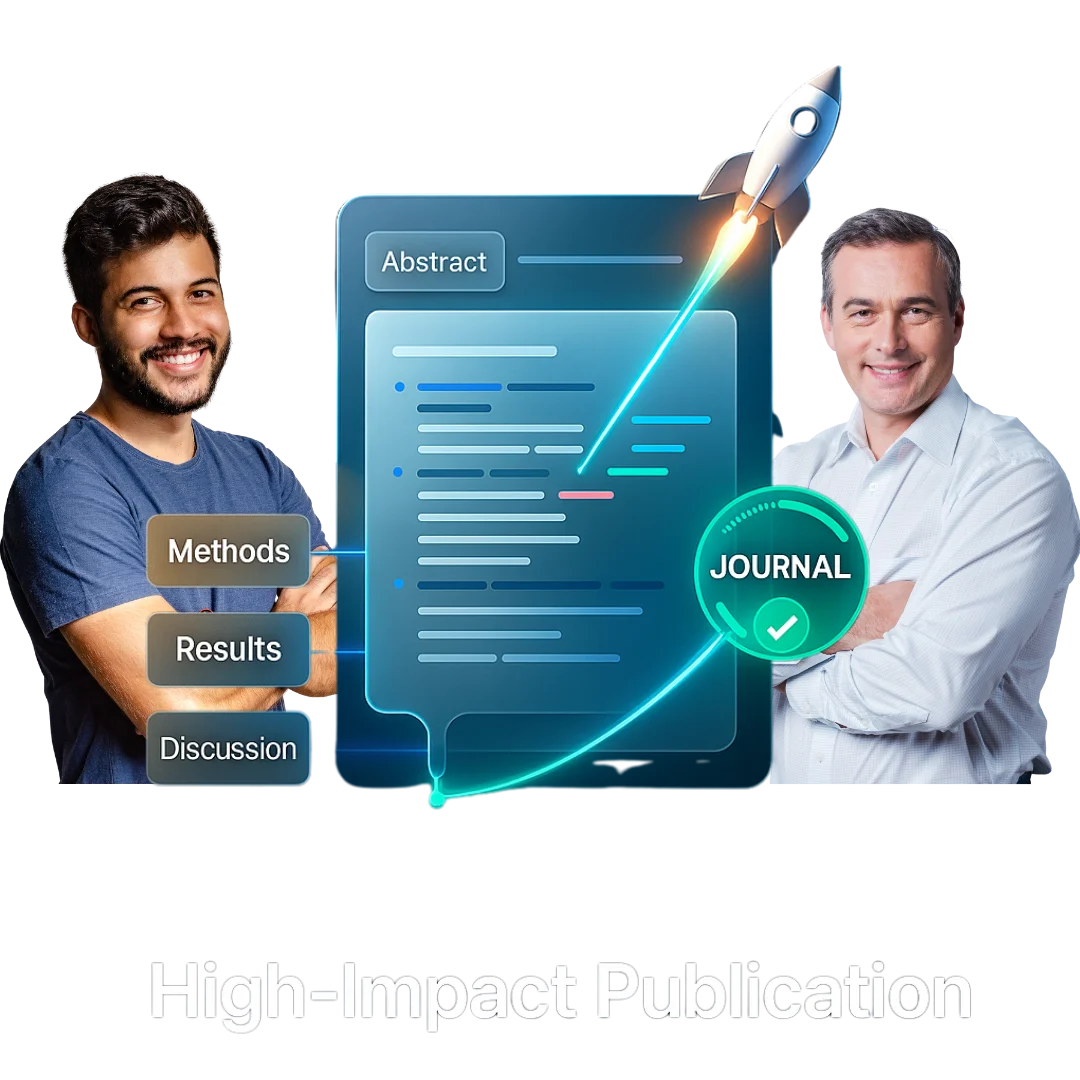
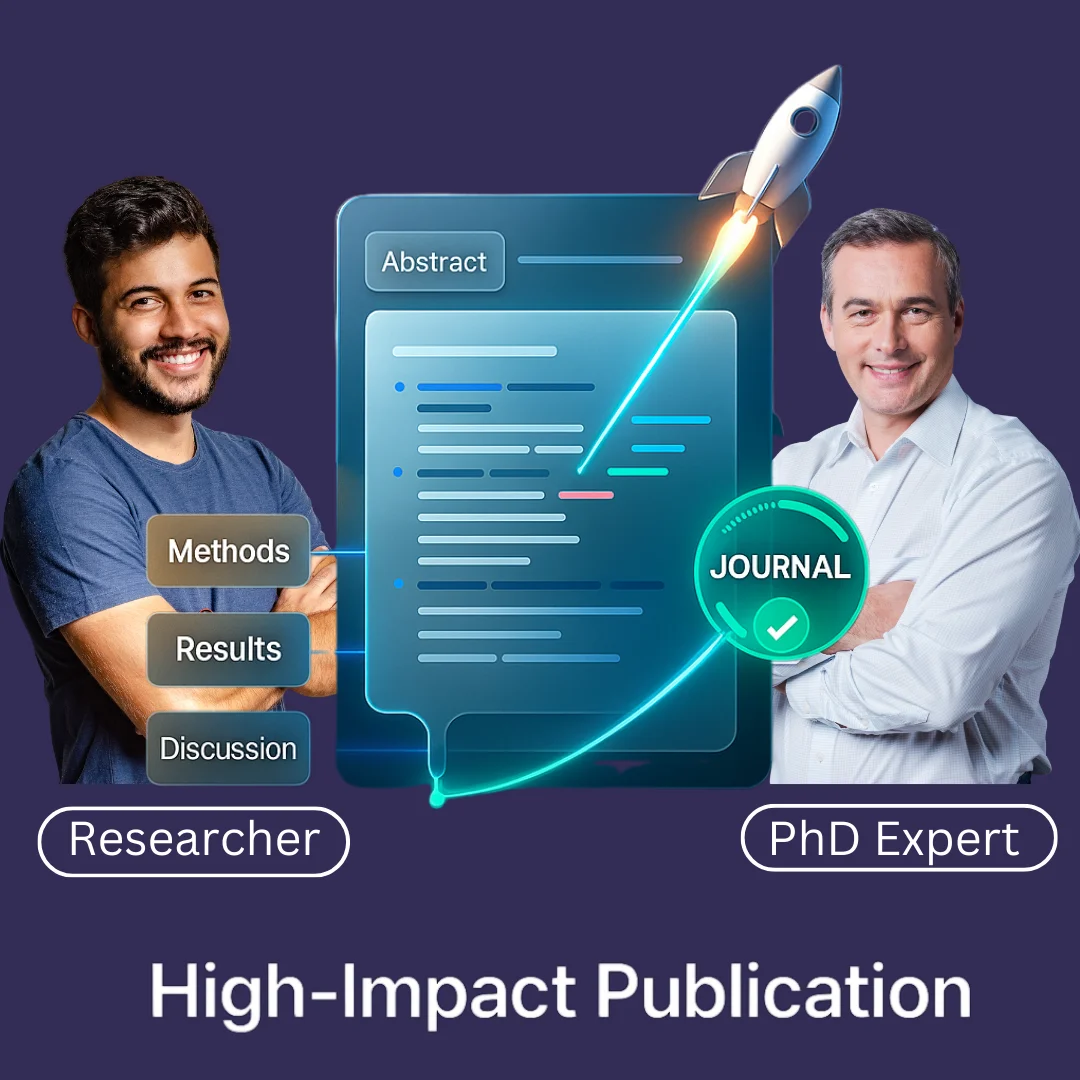
chnages background and image and link drop down pages related service section etc

diff --git a/src/assets/Pages/Editorial.jsx b/src/assets/Pages/Editorial.jsx
@@ -8,6 +8,7 @@ import PAY from '../images/payment.webp';
 import Risk from '../images/blueprint.webp';
 import { FaCheck, FaWhatsapp } from "react-icons/fa";
 import { servicesData, faqs, packages } from "../content/editorialdata";
+import { Link } from "react-router-dom";
 
 const Editorial = () => {
   const [activeTab, setActiveTab] = useState("Research Planning");
@@ -217,13 +218,13 @@ const Editorial = () => {
       <section className="related-services">
         <h2 className="services-title">Related Services</h2>
         <div className="services-links">
-          <a href="/data-services">Research Planning</a>
-          <span>·</span>
-          <a href="/editorial-support">Data Services</a>
-          <span>·</span>
-          <a href="/publication-support">Publication Support</a>
-          <span>·</span>
-          <a href="/publication-support">Academic Presentations</a>
+          <Link to="/research">Research Planning</Link>
+          <br/>
+          <Link to="/data">Data Services</Link>
+          <br/>
+          <Link to="/publication">Publication Support</Link>
+          <br/>
+          <Link to="/academic">Academic Presentation</Link>
         </div>
 
         <p className="services-text">

diff --git a/src/assets/Pages/Publication.jsx b/src/assets/Pages/Publication.jsx
@@ -8,6 +8,7 @@ import PAY from '../images/payment.webp';
 import Risk from '../images/blueprint.webp';
 import { FaCheck, FaWhatsapp } from "react-icons/fa";
 import { servicesData, faqs, packages } from "../content/editorialdata";
+import { Link } from "react-router-dom";
 
 const Publication = () => {
   const [activeTab, setActiveTab] = useState("Research Planning");
@@ -217,13 +218,13 @@ const Publication = () => {
       <section className="related-services">
         <h2 className="services-title">Related Services</h2>
         <div className="services-links">
-          <a href="/data-services">Research Planning</a>
-          <span>·</span>
-          <a href="/editorial-support">Data Services</a>
-          <span>·</span>
-          <a href="/publication-support">Publication Support</a>
-          <span>·</span>
-          <a href="/publication-support">Academic Presentations</a>
+          <Link to="/research">Research Planning</Link>
+          <br/>
+          <Link to="/data">Data Services</Link>
+          <br/>
+          <Link to="/editorial">Editorial Support</Link>
+          <br/>
+          <Link to="/academic">Academic Presentation</Link>
         </div>
 
         <p className="services-text">

diff --git a/src/assets/Pages/Academic.jsx b/src/assets/Pages/Academic.jsx
@@ -9,6 +9,7 @@ import PAY from '../images/payment.webp';
 import Risk from '../images/blueprint.webp';
 import { FaCheck, FaWhatsapp } from "react-icons/fa";
 import { servicesData, faqs, packages } from "../content/editorialdata";
+import { Link } from "react-router-dom";
 
 const Academic= () => {
   const [activeTab, setActiveTab] = useState("Research Planning");
@@ -218,13 +219,13 @@ const Academic= () => {
       <section className="related-services">
         <h2 className="services-title">Related Services</h2>
         <div className="services-links">
-          <a href="/data-services">Research Planning</a>
-          <span>·</span>
-          <a href="/editorial-support">Data Services</a>
-          <span>·</span>
-          <a href="/publication-support">Publication Support</a>
-          <span>·</span>
-          <a href="/publication-support">Academic Presentations</a>
+          <a href="/research">Research Planning</a>
+          <br/>
+          <Link to="/data">Data Services</Link>
+          <br/>
+          <Link to="/editorial">Editorial Support</Link>
+          <br/>
+          <Link to="/publication">Publication Support</Link>
         </div>
 
         <p className="services-text">

diff --git a/src/assets/Pages/Research.jsx b/src/assets/Pages/Research.jsx
@@ -8,6 +8,7 @@ import PAY from '../images/payment.webp';
 import Risk from '../images/blueprint.webp';
 import { FaCheck, FaWhatsapp } from "react-icons/fa";
 import { servicesData, faqs, packages } from "../content/researchdata"
+import { Link } from "react-router-dom";
 
 
 const Research = () => {
@@ -227,13 +228,13 @@ const Research = () => {
       <section className="related-services">
         <h2 className="services-title">Related Services</h2>
         <div className="services-links">
-          <a href="/data-services">Data Services</a>
-          <span>·</span>
-          <a href="/editorial-support">Editorial Support</a>
-          <span>·</span>
-          <a href="/publication-support">Publication Support</a>
-          <span>·</span>
-          <a href="/publication-support">Academic Presentations</a>
+          <Link to="/data">Data Services</Link>
+          <br/>
+          <Link to="/editorial">Editorial Support</Link>
+          <br/>
+          <Link to="/publication">Publication Support</Link>
+          <br/>
+          <Link to="/academic">Academic Presentation</Link>
         </div>
 
         <p className="services-text">

diff --git a/src/assets/Pages/Data.jsx b/src/assets/Pages/Data.jsx
@@ -8,6 +8,7 @@ import FINAL from '../images/school.webp';
 import PAY from '../images/payment.webp';
 import Risk from '../images/blueprint.webp';
 import { FaCheck, FaWhatsapp } from "react-icons/fa";
+import { Link } from "react-router-dom";
 
 
 const Data = () => {
@@ -222,13 +223,13 @@ const Data = () => {
       <section className="related-services">
         <h2 className="services-title">Related Services</h2>
         <div className="services-links">
-          <a href="/data-services">Research Planning</a>
-          <span>·</span>
-          <a href="/editorial-support">Editorial Support</a>
-          <span>·</span>
-          <a href="/publication-support">Publication Support</a>
-          <span>·</span>
-          <a href="/publication-support">Academic Presentations</a>
+          <Link to="/research">Research Planning</Link>
+          <br/>
+          <Link to="/editorial">Editorial Support</Link>
+          <br/>
+          <Link to="/publication">Publication Support</Link>
+          <br/>
+          <Link to="/academic">Academic Presentation</Link>
         </div>
 
         <p className="services-text">

diff --git a/src/assets/style/style.css b/src/assets/style/style.css
@@ -169,7 +169,7 @@ body {
 
     .navbar {
         position: absolute;
-        top: 72px;
+        top: 90px;
         right: 0;
         width: 100%;
         background: white;
@@ -1272,7 +1272,7 @@ body {
     align-items: center;
     justify-content: space-between;
     padding: 40px 40px;
-    background: #096B68;
+    background: #332D56;
     gap: 20px;
 }
 
@@ -1437,6 +1437,7 @@ body {
     .smart-submission .description {
         font-size: 1.2rem;
     }
+
     .feature-list li {
         font-size: 1rem;
 
@@ -2128,6 +2129,9 @@ body {
 .services-links {
     font-size: 18px;
     margin-bottom: 25px;
+    line-height: 1.3;
+    
+
 }
 
 .services-links a {
